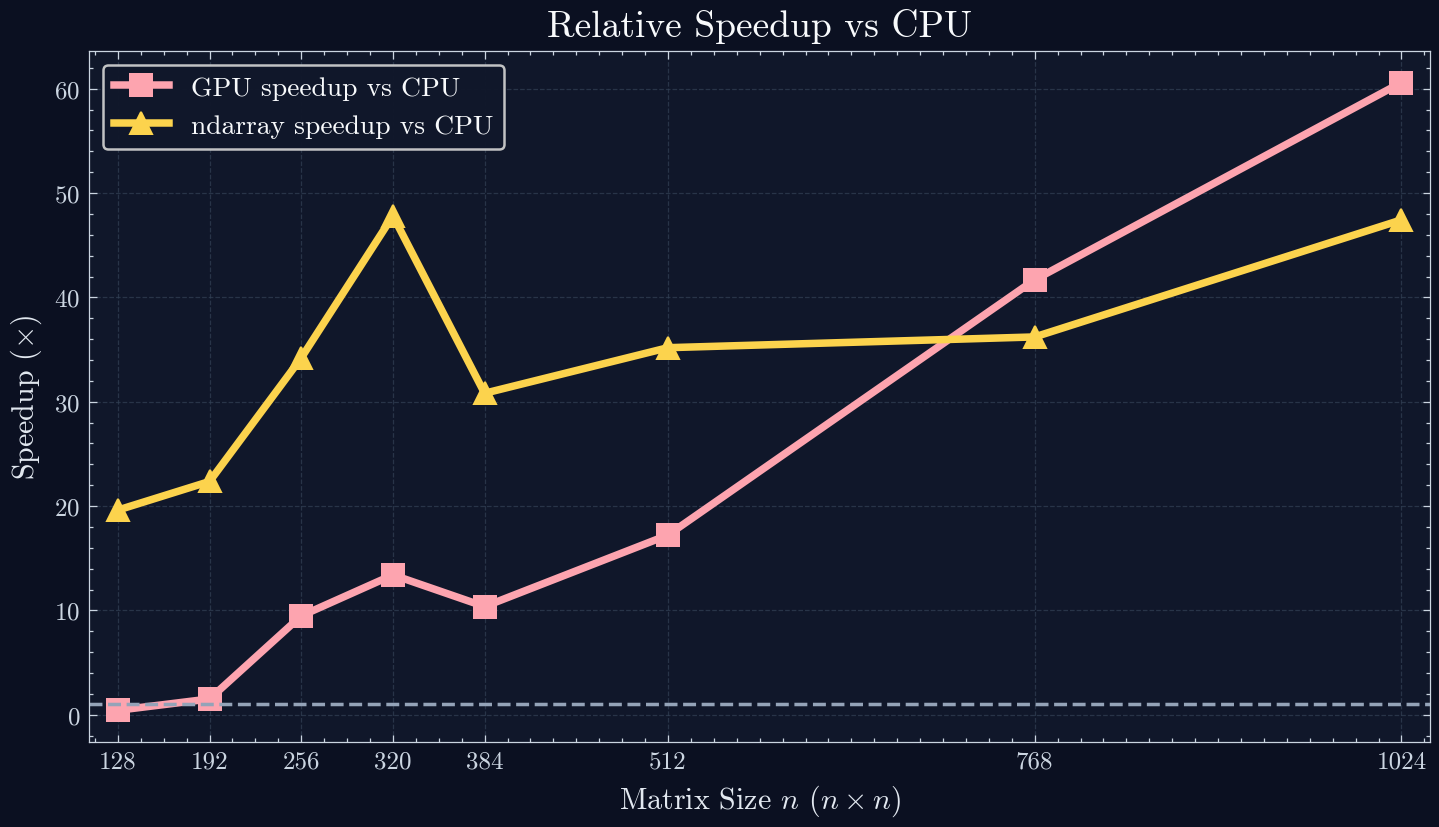
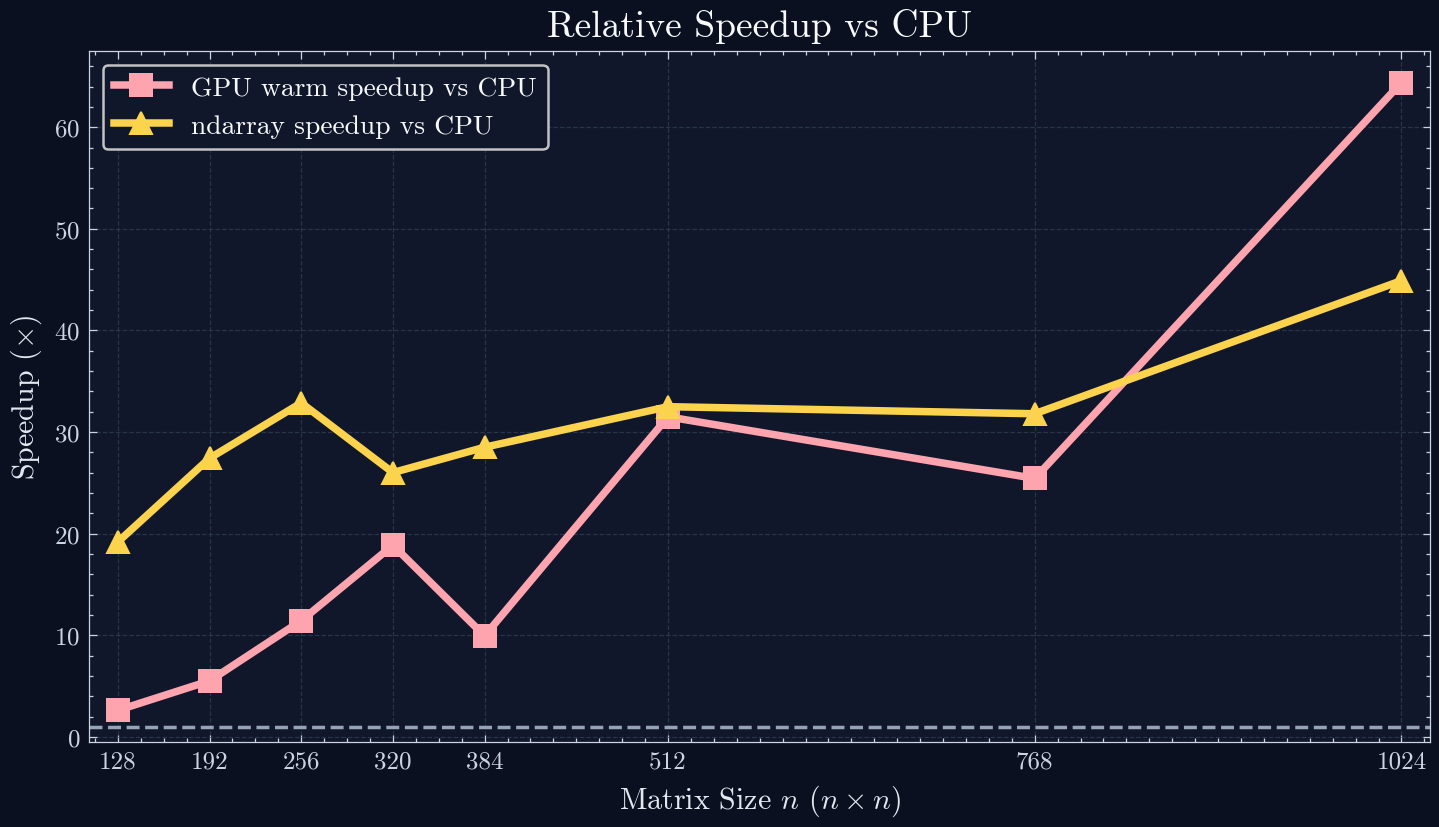
feat(bench): split gpu benchmarks into cold and warm runtime paths

diff --git a/benches/matrix_scaling.rs b/benches/matrix_scaling.rs
@@ -2,7 +2,7 @@ use criterion::measurement::WallTime;
 use criterion::{black_box, criterion_group, criterion_main, BenchmarkGroup, Criterion};
 use ndarray::Array2;
 
-use matrix_test::matrix::{ComputeOptions, Matrix};
+use matrix_test::{matrix::Matrix, metal::MetalRuntime};
 
 use std::time::Duration;
 
@@ -19,36 +19,29 @@ fn build_ndarray<const N: usize>(seed: f32) -> Array2<f32> {
     Array2::from_shape_fn((N, N), |(row, col)| matrix_value::<N>(row, col, seed))
 }
 
-fn bench_size<const N: usize>(group: &mut BenchmarkGroup<'_, WallTime>) {
+fn bench_size<const N: usize>(
+    group: &mut BenchmarkGroup<'_, WallTime>,
+    gpu_runtime: Option<&MetalRuntime>,
+) {
     let mat_a = build_matrix::<N>(0.13);
     let mat_b = build_matrix::<N>(0.79);
     let arr_a = build_ndarray::<N>(0.13);
     let arr_b = build_ndarray::<N>(0.79);
 
-    let gpu_options = ComputeOptions::gpu();
-    if mat_a.multiply_with(&mat_b, gpu_options).is_ok() {
-        group.bench_function(format!("gpu n={N}"), |b| {
+    if let Some(runtime) = gpu_runtime {
+        group.bench_function(format!("gpu warm n={N}"), |b| {
             b.iter(|| {
                 black_box(
-                    mat_a
-                        .multiply_with(&mat_b, gpu_options)
-                        .expect("GPU benchmark preflight should guarantee availability"),
+                    runtime
+                        .multiply(&mat_a, &mat_b)
+                        .expect("warm GPU benchmark should succeed after runtime init"),
                 )
             })
         });
-    } else {
-        eprintln!("Skipping GPU benchmark for n={N}: Metal backend unavailable");
     }
 
-    let cpu_options = ComputeOptions::cpu();
     group.bench_function(format!("cpu n={N}"), |b| {
-        b.iter(|| {
-            black_box(
-                mat_a
-                    .multiply_with(&mat_b, cpu_options)
-                    .expect("CPU backend path should be infallible"),
-            )
-        })
+        b.iter(|| black_box(mat_a.multiply(&mat_b)))
     });
 
     group.bench_function(format!("ndarray n={N}"), |b| {
@@ -60,15 +53,22 @@ fn criterion_benchmark(c: &mut Criterion) {
     let mut group = c.benchmark_group("matrix multiplication scaling");
     group.measurement_time(Duration::from_secs(5));
     group.sample_size(30);
+    let gpu_runtime = match MetalRuntime::new() {
+        Ok(runtime) => Some(runtime),
+        Err(err) => {
+            eprintln!("Skipping warm GPU scaling benchmarks: {err}");
+            None
+        }
+    };
 
-    bench_size::<128>(&mut group);
-    bench_size::<192>(&mut group);
-    bench_size::<256>(&mut group);
-    bench_size::<320>(&mut group);
-    bench_size::<384>(&mut group);
-    bench_size::<512>(&mut group);
-    bench_size::<768>(&mut group);
-    bench_size::<1024>(&mut group);
+    bench_size::<128>(&mut group, gpu_runtime.as_ref());
+    bench_size::<192>(&mut group, gpu_runtime.as_ref());
+    bench_size::<256>(&mut group, gpu_runtime.as_ref());
+    bench_size::<320>(&mut group, gpu_runtime.as_ref());
+    bench_size::<384>(&mut group, gpu_runtime.as_ref());
+    bench_size::<512>(&mut group, gpu_runtime.as_ref());
+    bench_size::<768>(&mut group, gpu_runtime.as_ref());
+    bench_size::<1024>(&mut group, gpu_runtime.as_ref());
 
     group.finish();
 }

diff --git a/scripts/generate_scaling_plots.py b/scripts/generate_scaling_plots.py
@@ -25,7 +25,7 @@ class Point:
     std_dev_ns: float
 
 
-BENCH_RE = re.compile(r"^(cpu|gpu|ndarray) n=(\d+)$")
+BENCH_RE = re.compile(r"^(cpu|gpu warm|ndarray) n=(\d+)$")
 
 
 def format_ns(value: float) -> str:
@@ -121,10 +121,10 @@ def load_points(group_dir: Path) -> list[Point]:
 
 
 def generate_time_plot(points: list[Point], out_path: Path) -> None:
-    backend_order = ["cpu", "gpu", "ndarray"]
-    markers = {"cpu": "o", "gpu": "s", "ndarray": "^"}
-    labels = {"cpu": "CPU", "gpu": "GPU (Metal)", "ndarray": "ndarray"}
-    colors = {"cpu": "#5eead4", "gpu": "#fda4af", "ndarray": "#fcd34d"}
+    backend_order = ["cpu", "gpu warm", "ndarray"]
+    markers = {"cpu": "o", "gpu warm": "s", "ndarray": "^"}
+    labels = {"cpu": "CPU", "gpu warm": "GPU warm (Metal)", "ndarray": "ndarray"}
+    colors = {"cpu": "#5eead4", "gpu warm": "#fda4af", "ndarray": "#fcd34d"}
 
     fig, ax = plt.subplots(figsize=(8.2, 5.1))
     xticks = sorted({p.n for p in points})
@@ -162,12 +162,12 @@ def generate_time_plot(points: list[Point], out_path: Path) -> None:
 
 def generate_speedup_plot(points: list[Point], out_path: Path) -> None:
     cpu_by_n = {p.n: p.mean_ns for p in points if p.backend == "cpu"}
-    colors = {"gpu": "#fda4af", "ndarray": "#fcd34d"}
+    colors = {"gpu warm": "#fda4af", "ndarray": "#fcd34d"}
 
     fig, ax = plt.subplots(figsize=(8.2, 4.8))
     xticks = sorted({p.n for p in points})
     for backend, marker, label in [
-        ("gpu", "s", "GPU speedup vs CPU"),
+        ("gpu warm", "s", "GPU warm speedup vs CPU"),
         ("ndarray", "^", "ndarray speedup vs CPU"),
     ]:
         entries = sorted(
@@ -215,7 +215,7 @@ def write_markdown(
     speedup_plot_path: Path,
 ) -> None:
     cpu_by_n = {p.n: p.mean_ns for p in points if p.backend == "cpu"}
-    backend_rank = {"cpu": 0, "gpu": 1, "ndarray": 2}
+    backend_rank = {"cpu": 0, "gpu warm": 1, "ndarray": 2}
     by_n: dict[int, list[Point]] = {}
     for p in points:
         by_n.setdefault(p.n, []).append(p)
@@ -288,7 +288,6 @@ def main() -> None:
     if not args.no_run:
         if group_dir.exists():
             shutil.rmtree(group_dir)
-        subprocess.run(["just", "all"], check=False)
         subprocess.run(["cargo", "bench", "--bench", "matrix_scaling"], check=True)
 
     if not group_dir.exists():

diff --git a/benches/matrix_multiplication.rs b/benches/matrix_multiplication.rs
@@ -1,7 +1,7 @@
 use criterion::{black_box, criterion_group, criterion_main, Criterion};
 use ndarray::Array2;
 
-use matrix_test::matrix::{ComputeOptions, Matrix};
+use matrix_test::{matrix::Matrix, metal::MetalRuntime};
 
 use std::time::Duration;
 
@@ -35,27 +35,31 @@ fn criterion_benchmark(c: &mut Criterion) {
     let mut group = c.benchmark_group("matrix multiplication");
     group.measurement_time(Duration::from_secs(10));
 
-    let gpu_options = ComputeOptions::gpu();
-    if mat2.multiply_with(&mat2, gpu_options).is_ok() {
-        group.bench_function("gpu matrix multiply", |b| {
-            b.iter(|| {
-                black_box(
-                    mat2.multiply_with(&mat2, gpu_options)
-                        .expect("GPU benchmark preflight should guarantee availability"),
-                )
-            })
-        });
-    } else {
-        eprintln!("Skipping GPU benchmark: Metal backend unavailable");
+    match MetalRuntime::new() {
+        Ok(runtime) => {
+            group.bench_function("gpu warm matrix multiply", |b| {
+                b.iter(|| black_box(runtime.multiply(&mat1, &mat2).expect("warm GPU path should succeed")))
+            });
+            group.bench_function("gpu cold init + multiply", |b| {
+                b.iter(|| {
+                    let runtime = MetalRuntime::new()
+                        .expect("cold GPU benchmark requires runtime initialization to succeed");
+                    black_box(
+                        runtime
+                            .multiply(&mat1, &mat2)
+                            .expect("cold GPU benchmark multiply should succeed"),
+                    )
+                })
+            });
+        }
+        Err(err) => {
+            eprintln!("Skipping GPU benchmarks: {err}");
+        }
     }
 
-    let cpu_options = ComputeOptions::cpu();
     group.bench_function("cpu matrix multiply", |b| {
         b.iter(|| {
-            black_box(
-                mat1.multiply_with(&mat2, cpu_options)
-                    .expect("CPU backend path should be infallible"),
-            )
+            black_box(mat1.multiply(&mat2))
         })
     });
 

diff --git a/scripts/generate_benchmark_report.py b/scripts/generate_benchmark_report.py
@@ -175,7 +175,7 @@ def render_markdown(
             f"- Baseline: `{baseline_name}`",
             f"- Significance: permutation test on per-sample ns/op (`alpha={alpha}`, `reps={permutation_reps}`)",
             "",
-            "| Benchmark | n | μ ± 95% CI | σ | Speed vs baseline | p-value vs baseline | Significant | Cliff's delta |",
+            "| Benchmark | samples | μ ± 95% CI | σ | Speed vs baseline | p-value vs baseline | Significant | Cliff's delta |",
             "| --- | ---: | --- | ---: | ---: | ---: | ---: | --- |",
             *rows,
             "",
@@ -235,7 +235,6 @@ def main() -> None:
         group_dir = criterion_root / args.group
         if group_dir.exists():
             shutil.rmtree(group_dir)
-        subprocess.run(["just", "all"], check=False)
         subprocess.run(
             ["cargo", "bench", "--bench", "matrix_multiplication"],
             check=True,

diff --git a/docs/benchmark-scaling.md b/docs/benchmark-scaling.md
@@ -1,6 +1,6 @@
 # Matrix Scaling Benchmarks
 
-- Generated: 2026-02-28 22:50:17 UTC
+- Generated: 2026-03-15 13:23:28 UTC
 - Bench suite: `matrix_scaling`
 - Metric: Criterion mean runtime (plots show mean lines; 95% CI is in the table)
 
@@ -11,64 +11,64 @@
 
 | backend | μ ± 95% CI | σ | speedup vs cpu |
 | --- | --- | ---: | ---: |
-| cpu | 814.911 µs ± 2.504 µs | 7.138 µs | 1.000x |
-| gpu | 1.862 ms ± 40.921 µs | 115.784 µs | 0.438x |
-| ndarray | 41.533 µs ± 76.781 ns | 221.822 ns | 19.621x |
+| cpu | 876.347 µs ± 6.867 µs | 19.539 µs | 1.000x |
+| gpu warm | 335.186 µs ± 58.260 µs | 165.778 µs | 2.615x |
+| ndarray | 45.685 µs ± 3.010 µs | 8.847 µs | 19.183x |
 
 ## n = 192
 
 | backend | μ ± 95% CI | σ | speedup vs cpu |
 | --- | --- | ---: | ---: |
-| cpu | 3.066 ms ± 7.111 µs | 20.245 µs | 1.000x |
-| gpu | 2.014 ms ± 35.047 µs | 100.056 µs | 1.523x |
-| ndarray | 137.127 µs ± 5.843 µs | 16.830 µs | 22.362x |
+| cpu | 3.810 ms ± 213.533 µs | 608.201 µs | 1.000x |
+| gpu warm | 691.847 µs ± 34.712 µs | 98.914 µs | 5.507x |
+| ndarray | 138.960 µs ± 1.350 µs | 3.850 µs | 27.419x |
 
 ## n = 256
 
 | backend | μ ± 95% CI | σ | speedup vs cpu |
 | --- | --- | ---: | ---: |
-| cpu | 22.569 ms ± 5.589 ms | 16.123 ms | 1.000x |
-| gpu | 2.379 ms ± 307.805 µs | 885.430 µs | 9.485x |
-| ndarray | 659.933 µs ± 21.569 µs | 61.939 µs | 34.200x |
+| cpu | 10.232 ms ± 507.947 µs | 1.460 ms | 1.000x |
+| gpu warm | 895.051 µs ± 50.205 µs | 158.250 µs | 11.431x |
+| ndarray | 311.320 µs ± 518.331 ns | 1.477 µs | 32.865x |
 
 ## n = 320
 
 | backend | μ ± 95% CI | σ | speedup vs cpu |
 | --- | --- | ---: | ---: |
-| cpu | 49.869 ms ± 11.841 ms | 33.763 ms | 1.000x |
-| gpu | 3.719 ms ± 292.057 µs | 832.092 µs | 13.409x |
-| ndarray | 1.043 ms ± 18.277 µs | 53.059 µs | 47.816x |
+| cpu | 15.771 ms ± 172.006 µs | 508.678 µs | 1.000x |
+| gpu warm | 836.209 µs ± 159.583 µs | 453.590 µs | 18.860x |
+| ndarray | 606.408 µs ± 3.428 µs | 9.990 µs | 26.008x |
 
 ## n = 384
 
 | backend | μ ± 95% CI | σ | speedup vs cpu |
 | --- | --- | ---: | ---: |
-| cpu | 48.718 ms ± 855.445 µs | 2.446 ms | 1.000x |
-| gpu | 4.694 ms ± 211.555 µs | 602.178 µs | 10.378x |
-| ndarray | 1.581 ms ± 10.834 µs | 30.690 µs | 30.814x |
+| cpu | 29.516 ms ± 28.019 µs | 83.369 µs | 1.000x |
+| gpu warm | 2.970 ms ± 37.254 µs | 105.711 µs | 9.938x |
+| ndarray | 1.036 ms ± 769.338 ns | 2.198 µs | 28.503x |
 
 ## n = 512
 
 | backend | μ ± 95% CI | σ | speedup vs cpu |
 | --- | --- | ---: | ---: |
-| cpu | 138.524 ms ± 1.012 ms | 2.857 ms | 1.000x |
-| gpu | 8.040 ms ± 1.509 ms | 4.319 ms | 17.229x |
-| ndarray | 3.938 ms ± 77.988 µs | 221.378 µs | 35.180x |
+| cpu | 79.853 ms ± 400.901 µs | 1.157 ms | 1.000x |
+| gpu warm | 2.535 ms ± 585.891 µs | 1.673 ms | 31.498x |
+| ndarray | 2.457 ms ± 17.506 µs | 50.158 µs | 32.495x |
 
 ## n = 768
 
 | backend | μ ± 95% CI | σ | speedup vs cpu |
 | --- | --- | ---: | ---: |
-| cpu | 503.354 ms ± 25.265 ms | 72.238 ms | 1.000x |
-| gpu | 12.073 ms ± 1.381 ms | 3.921 ms | 41.691x |
-| ndarray | 13.900 ms ± 335.945 µs | 952.203 µs | 36.211x |
+| cpu | 265.089 ms ± 1.400 ms | 4.032 ms | 1.000x |
+| gpu warm | 10.423 ms ± 804.539 µs | 2.288 ms | 25.433x |
+| ndarray | 8.337 ms ± 65.296 µs | 186.982 µs | 31.798x |
 
 ## n = 1024
 
 | backend | μ ± 95% CI | σ | speedup vs cpu |
 | --- | --- | ---: | ---: |
-| cpu | 1530.744 ms ± 179.010 ms | 514.824 ms | 1.000x |
-| gpu | 25.264 ms ± 2.267 ms | 6.431 ms | 60.591x |
-| ndarray | 32.273 ms ± 483.631 µs | 1.379 ms | 47.431x |
+| cpu | 915.681 ms ± 31.078 ms | 88.799 ms | 1.000x |
+| gpu warm | 14.219 ms ± 1.537 ms | 4.382 ms | 64.400x |
+| ndarray | 20.394 ms ± 333.540 µs | 949.426 µs | 44.900x |
 
 _Lower runtime is faster._

diff --git a/docs/benchmark-comparison.md b/docs/benchmark-comparison.md
@@ -1,14 +1,15 @@
 # Benchmark Comparison
 
-- Generated: 2026-02-28 19:16:18 UTC
+- Generated: 2026-03-15 13:19:39 UTC
 - Criterion group: `matrix multiplication`
 - Baseline: `cpu matrix multiply`
 - Significance: permutation test on per-sample ns/op (`alpha=0.05`, `reps=20000`)
 
-| Benchmark | n | μ ± 95% CI | σ | Speed vs baseline | p-value vs baseline | Significant | Cliff's delta |
+| Benchmark | samples | μ ± 95% CI | σ | Speed vs baseline | p-value vs baseline | Significant | Cliff's delta |
 | --- | ---: | --- | ---: | ---: | ---: | ---: | --- |
-| cpu matrix multiply | 100 | 9.809 ms ± 263.835 µs | 1.382 ms | 1.000x | - | - | - |
-| ndarray multiply | 100 | 411.337 µs ± 20.025 µs | 102.513 µs | 23.846x | 0.0000 | yes | +1.000 (large) |
-| gpu matrix multiply | 100 | 2.894 ms ± 160.269 µs | 821.096 µs | 3.390x | 0.0000 | yes | +1.000 (large) |
+| cpu matrix multiply | 100 | 11.543 ms ± 436.503 µs | 2.243 ms | 1.000x | - | - | - |
+| ndarray multiply | 100 | 323.089 µs ± 4.589 µs | 24.640 µs | 35.727x | 0.0000 | yes | +1.000 (large) |
+| gpu warm matrix multiply | 100 | 865.912 µs ± 52.582 µs | 269.641 µs | 13.330x | 0.0000 | yes | +1.000 (large) |
+| gpu cold init + multiply | 100 | 1.616 ms ± 70.550 µs | 362.486 µs | 7.144x | 0.0000 | yes | +1.000 (large) |
 
 _Lower mean time is faster._
